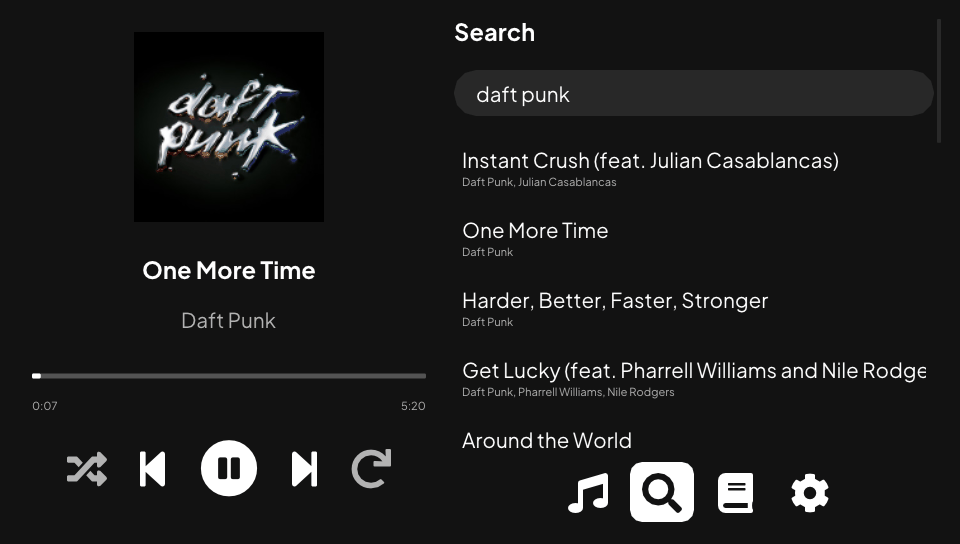
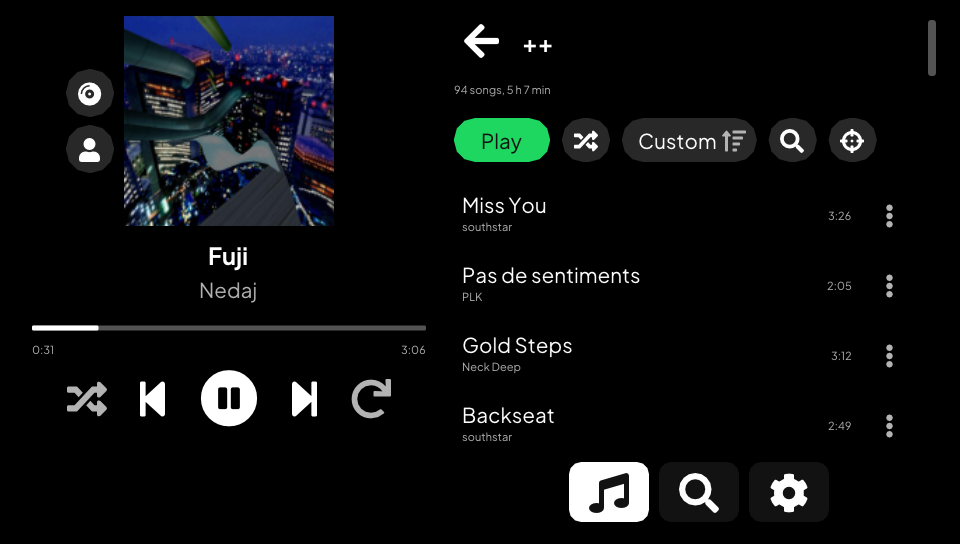
New README and screenshots

diff --git a/README.md b/README.md
@@ -2,87 +2,109 @@
 
 # Spotivita
 
-A Spotify player for the PS Vita. Open your playlists, search for tracks and
-play them on the console, or pick the Vita as a speaker from the Spotify app on
-your phone.
+A Spotify player for the PS Vita. Open your playlists, search, browse artists
+and albums, and play it all on the console. Your phone can also pick the Vita
+as a speaker from the Spotify app.
 
-![Spotivita playing a search result](docs/player.png)
+![A playlist open next to the player](docs/player.png)
 
-Spotify Premium is required. Spotivita started as a fork of
+It needs Spotify Premium. Spotivita started as a fork of
 [cspot_vita](https://github.com/michal4132/cspot_vita) and still streams
-through [cspot](https://github.com/feelfreelinux/cspot). Most of the rest is
-new: the interface, the library, search, local playback control and the
-network layer.
+through [cspot](https://github.com/feelfreelinux/cspot). The interface, the
+library, search, browsing, local playback control and most of the network code
+are new.
 
-## Features
+| Your library | Search |
+| --- | --- |
+| ![Playlists and folders in the library](docs/library.png) | ![Search results for southstar](docs/search.png) |
+| **Artist page** | **Album** |
+| ![The artist page of dreamcorp.](docs/artist.png) | ![An album opened from its artist page](docs/album.png) |
+| **Song menu** | **First launch** |
+| ![The menu of a song, with its album and artist](docs/menu.png) | ![The login screen](docs/login.png) |
 
-- Your library as Spotify shows it: Liked Songs first, then your playlists
-  and folders, in your order. It shows at once from a cache and refreshes in
-  the background at each launch.
-- Big playlists load whole. A 3800-song playlist shows every title in about
-  3 seconds, then opens at once from a cache. Each one shows its song count
+## What it does
+
+### Library
+
+- Liked Songs first, then your playlists and folders in the order Spotify
+  shows them. The list opens at once from a cache and refreshes in the
+  background at each launch.
+- Playlists load whole. A 3800-song playlist lists every title in about 3
+  seconds the first time, then opens at once. Each one shows its song count
   and total length.
-- Sort a playlist by title, artist, album, date added or duration, in either
-  direction. Each playlist remembers its sort. A filter narrows it to the
-  songs whose title, artist or album match.
-- Shuffle play, a fast-scroll thumb that shows the letter, date or position
-  under your finger, a button that scrolls to the song playing, and a right
-  stick that speeds up the longer you hold it.
-- A sleep timer: 15 minutes, 30 minutes, 1 hour or the end of the song.
-- Search for songs, artists, albums and playlists. The results page shows a
-  bit of each, with the top artist first when it matches; a chip opens one
-  kind with every result, a page at a time.
-- Artist pages: popular songs, albums, singles, compilations, "Appears on",
-  playlists and similar artists, each with a "See all" page. Play the artist
-  or shuffle it.
+- Sort a playlist by title, artist, album, date added or duration, either way.
+  Each playlist keeps its sort. The filter keeps the songs whose title, artist
+  or album match what you type.
+- Shuffle play, a button that scrolls to the song playing, and a fast-scroll
+  thumb that shows the letter, date or position under your finger. The right
+  stick scrolls faster the longer you hold it.
+
+### Search and browsing
+
+- Search for songs, artists, albums and playlists. The first page shows a few
+  of each, with the top artist first when it matches. A chip opens one kind
+  with every result, a page at a time.
+- Artist pages list popular songs, albums, singles and EPs, compilations,
+  "Appears on", playlists and similar artists. Each section has a "See all"
+  page, and the artist plays in order or shuffled.
 - Albums and public playlists open like your own playlists, with their cover,
-  sort and filter. Nothing is added to your account: browsing is read-only.
-- Every song row has a menu (the dots, or triangle on the row) to go to its
-  album or one of its artists. On the player, tap the cover or the title for
-  the album, the artist line for the artist, or use the two buttons by the
-  cover with the gamepad.
-- Play, pause, next, previous, seek on the progress bar, shuffle, repeat and
-  volume, all handled on the Vita. Pause cuts the sound at once. Previous
-  restarts the track after its first 3 seconds, like Spotify.
+  sort and filter. Browsing never adds anything to your account.
+- Every song has a menu (the dots, or triangle on the row) that goes to its
+  album or one of its artists. On the player, the cover and the title open the
+  album and the artist line opens the artist. The two buttons by the cover do
+  the same with the gamepad.
+
+### Playback
+
+- Play, pause, next, previous, seek, shuffle and repeat, handled on the Vita.
+  Pause cuts the sound at once. Previous restarts the song after its first 3
+  seconds, like Spotify.
+- The console's volume buttons set the level. The app always plays at full.
+- A sleep timer stops the music after 15 minutes, 30 minutes, 1 hour or at the
+  end of the song.
 - Audio quality in Settings: Low (96 kb/s), Normal (160 kb/s) or Very high
   (320 kb/s, the default).
-- Greek and Cyrillic titles. Emoji and CJK characters are left out, the fonts
-  on the Vita do not have them.
-- A black background, which turns the pixels off on the OLED model.
-- Spotify Connect: the Vita shows up in the device list of the Spotify app, so
-  your phone can drive it too.
+- Press the PS button and the music keeps playing, screen off included. The
+  interface stops drawing while it is in the background.
+- Wi-Fi off at launch or lost mid-song: the app keeps retrying every 5 seconds
+  and picks the song up again once it reconnects.
+
+### Spotify Connect
+
+- The Vita shows up in the device list of the Spotify app, so your phone can
+  drive it.
 - One device plays at a time, like Spotify. Start a song on your phone and the
-  Vita pauses; start one on the Vita and the phone pauses.
-- While another device plays, the Vita shows its song and drives it: play,
-  pause, next, previous, seek and volume. "Play here" moves the playback to the
-  Vita, at the same spot.
-- Background playback: press the PS button and the music keeps going, screen
-  off included. The interface stops drawing while it is in the background.
-- No `libshacccg.suprx` needed. It draws with vita2d and precompiled shaders.
+  Vita pauses. Start one on the Vita and the phone pauses.
+- While another device plays, the Vita shows its song and controls it: play,
+  pause, next, previous and seek. "Play here" moves the music to the Vita at
+  the same spot.
+
+### Display
+
+- A black background, which turns the pixels off on the OLED model.
+- Greek and Cyrillic titles draw fine. The Vita's fonts have no emoji or CJK
+  characters, so the app leaves those out.
+- It draws with vita2d and precompiled shaders, so `libshacccg.suprx` is not
+  needed.
 
 ## Status
 
-Everything above runs in the Vita3K emulator, which has no sound, so playback
-there is checked by watching the position move. The vita2d build plays,
-searches and runs in the background on a real PS Vita. A dropped connection
-to Spotify used to leave the player silent and deaf to pause; the stream now
-asks for the lost audio again after the reconnect. That fix has not been
-through a real disconnect yet. The handover between the Vita and another
-device has only run against a simulated phone so far. Artist pages, albums,
-public playlists and the song menu have only run in Vita3K. If something breaks
-on your Vita, please open an issue.
+Everything above runs in the Vita3K emulator. Vita3K has no sound, so there
+playback is checked by watching the position move. On a real PS Vita the app
+plays, searches and keeps playing in the background.
+
+Not tried on a console yet: a real Wi-Fi drop (Vita3K saw the lost link and
+the reconnect), the handover with a real phone (tested against a simulated
+one), and the artist, album and song menu pages. If something breaks on your
+Vita, please open an issue.
 
 ## Install
 
-1. Get `spotivita.vpk`. Each CI run on `master` attaches it as the
-   `spotivita-vpk` artifact (Actions tab, GitHub login needed). A release will
-   follow the first hardware test.
+1. Download `spotivita.vpk` from the
+   [latest release](https://github.com/klNuno/spotivita/releases/latest).
 2. Install it with VitaShell. Its TITLEID is `SPOTIVITA`, so it sits next to an
    existing CSpot install instead of replacing it.
 3. Open Spotivita. It waits for Spotify Connect.
-
-   ![Login screen](docs/login.png)
-
 4. On your phone, on the same Wi-Fi, open Spotify, tap the devices icon and
    pick Spotivita. The Vita keeps that login, so later launches connect on
    their own.
@@ -91,20 +113,22 @@ Spotify turned off username and password logins in 2024. The Vita cannot log
 in by itself anymore, so your phone hands it a login over the local network
 (Zeroconf).
 
+Each CI run on `master` also attaches a build as the `spotivita-vpk` artifact
+(Actions tab, GitHub login needed).
+
 ## How it talks to Spotify
 
 - cspot keeps the session with Spotify's access point, streams and decodes the
   audio (Ogg Vorbis), and answers Spotify Connect.
-- Playlists and track names come from spclient, search from the same GraphQL
-  endpoint the web player uses.
+- Playlists, song names, albums and the album and artists of a song come from
+  spclient. Search and artist pages use the same GraphQL endpoint as the web
+  player.
 - The public Web API answers 429 to every request from this client, so nothing
-  depends on it. When you play a track, the Vita builds the queue itself and
+  depends on it. When you play a song, the Vita builds the queue itself and
   hands it to cspot.
-- Search and artist pages use query hashes from the web player. When Spotify
-  rotates them, those pages show "Spotify changed its API" until the app is
-  updated.
-- Albums, and the album and artists of a song, come from spclient's
-  extended metadata.
+- Search and artist pages send query hashes taken from the web player. When
+  Spotify rotates them, those pages show "Spotify changed its API" until the
+  app is updated.
 
 ## Building
 
@@ -120,7 +144,9 @@ cmake -B build && cmake --build build
 
 The VPK lands in `build/spotivita.vpk`. `.github/workflows/ci.yml` builds it in
 the `vitasdk/vitasdk` Docker image. That image installs OpenSSL 1.1.1 while its
-libcurl expects 1.0.2, so the workflow swaps the package back first.
+libcurl expects 1.0.2, so the workflow swaps the package back first. Pushing a
+`v*` tag also publishes a release with the VPK, its notes taken from the
+annotated tag's message.
 
 ## Testing without the console in your hands
 
@@ -146,6 +172,8 @@ VITA_HOST=<vita-ip> python tools/vitactl.py "state; tap 660 492; shot s.png"
 - `tools/vita3k` runs the same build in Vita3K on a hidden Windows desktop,
   with no window on your screen. `tools/vita3k/login.py` logs the emulator in
   without a phone. Details are in [tools/vita3k/README.md](tools/vita3k/README.md).
+- `vitactl netdrop` cuts the link to Spotify's access point the way a Wi-Fi
+  loss does, and `netdrop write` makes the next send fail.
 
 ## Credits
 
